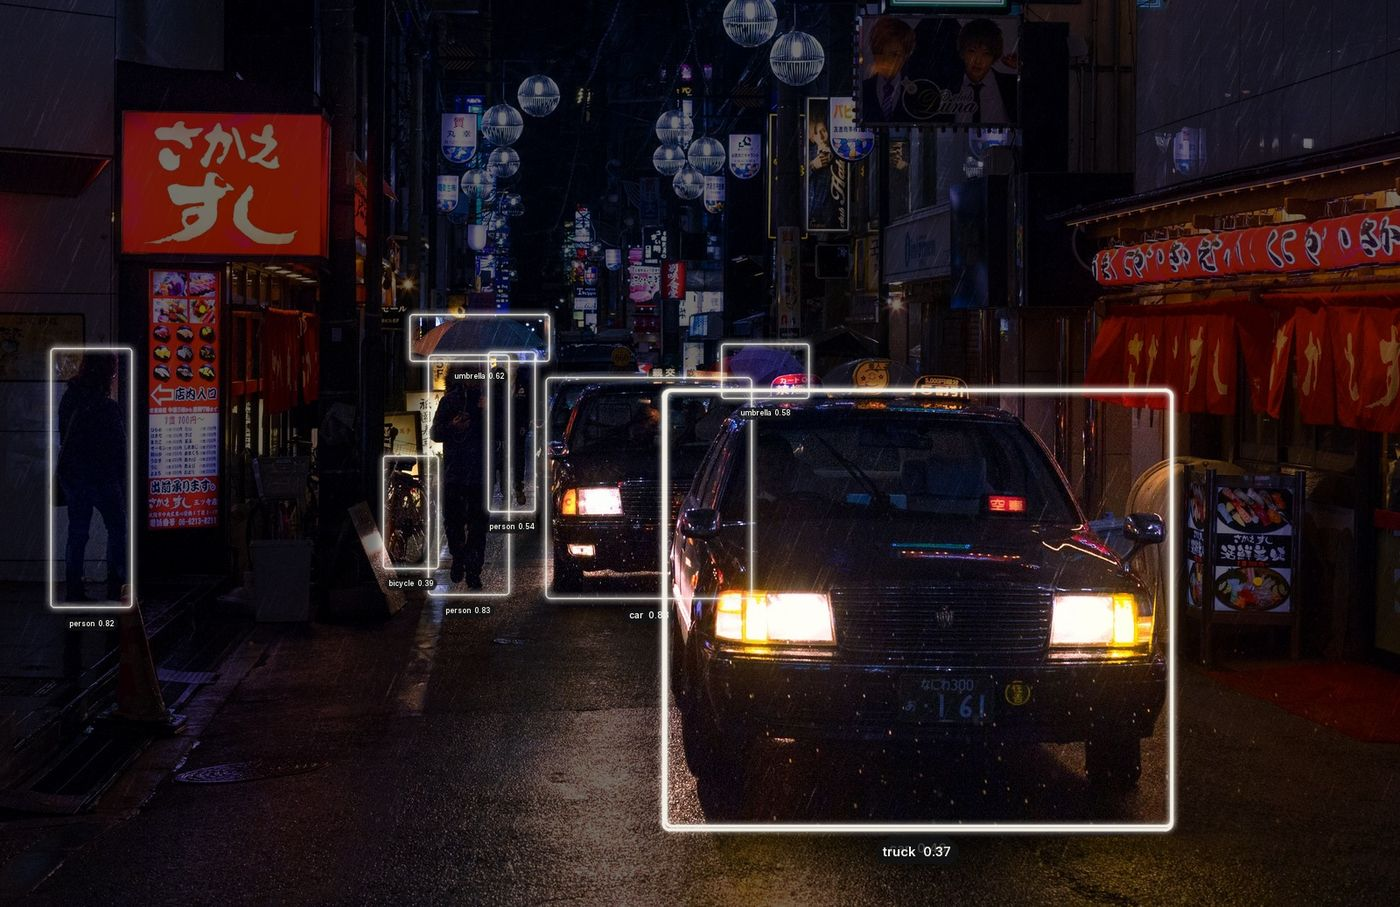
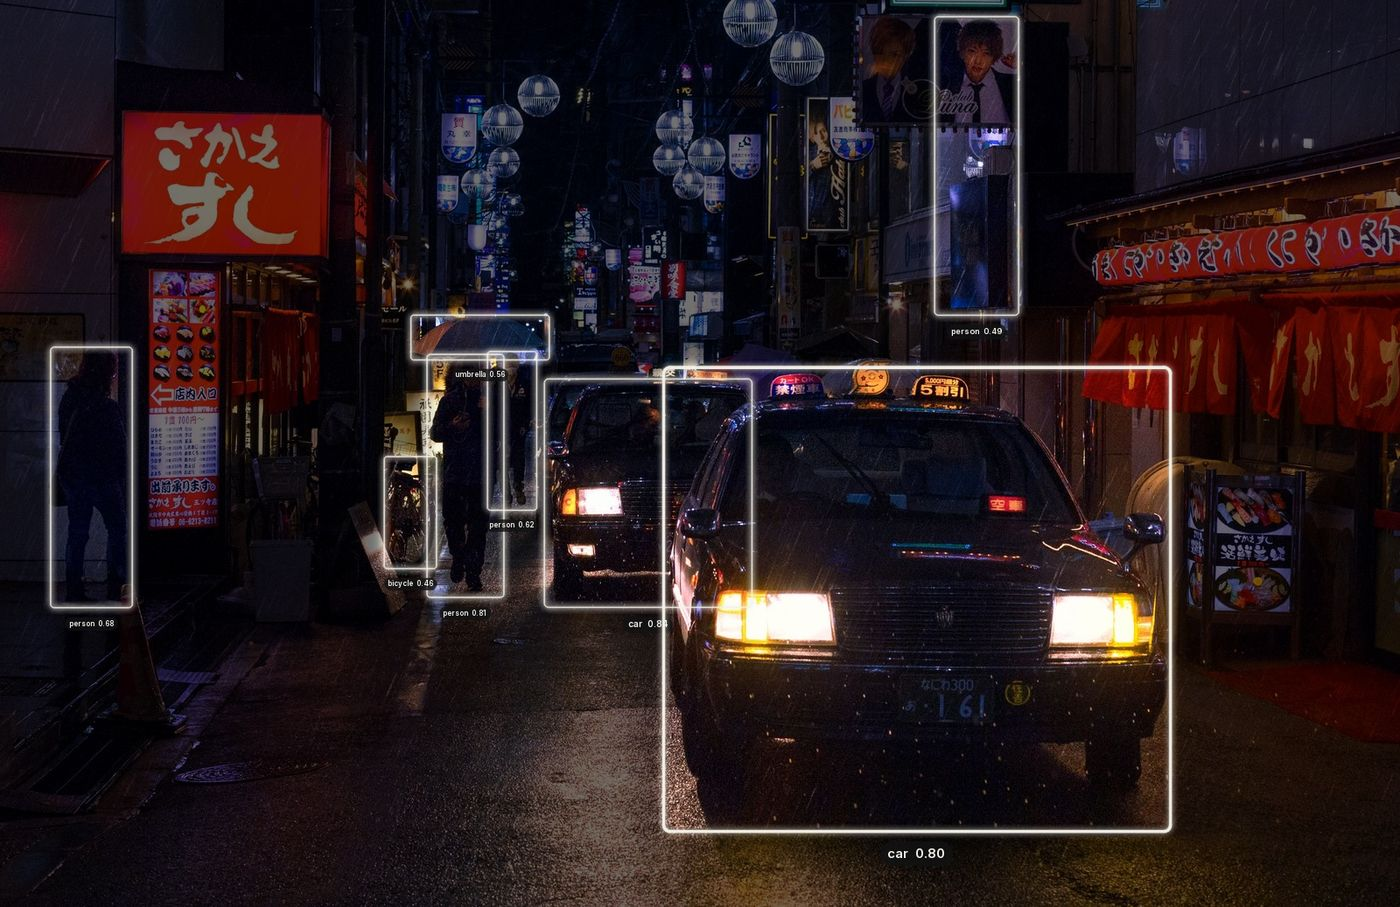
docs: re-render README, site and Studio imagery from YOLO26n detections
- hero, neon, gallery, per-preset renders and thumbs, showcase grid and the
  Studio screenshot regenerated from the new sample sidecars
- showcase trails tile: scripted motion remapped to the new track IDs

Changed region(s): [[0.2764, 0.3705, 0.86, 0.957], [0.645, 0.0, 0.7371, 0.3705], [0.0307, 0.3705, 0.0921, 0.4013]]

diff --git a/docs/showcase.py b/docs/showcase.py
@@ -2,7 +2,7 @@
 
 Each tile crops one of the bundled samples tightly around a few objects and renders them with a
 style built to show one capability, so the differences stay visible at README width. Detections
-are the samples' real YOLO11n output. The objects in the sample video barely move, so the trails
+are the samples' real YOLO26n output. The objects in the sample video barely move, so the trails
 tile scripts plausible paths (pedestrians crossing the street) ending at the real boxes and
 feeds them through the real trail renderer.
 
@@ -222,7 +222,7 @@ TILES: list[dict[str, Any]] = [
         "crop": (700, 470, 1440, 963),
         "only": ["person", "car"],
         # scripted start offsets (source px) per track id; paths end at the real boxes
-        "motion": {3: (-230, 30), 4: (260, 40), 6: (230, -10), 7: (110, 6), 8: (-100, 4)},
+        "motion": {3: (-230, 30), 7: (260, 40), 5: (230, -10), 10: (110, 6), 9: (-100, 4)},
         "style": {
             "palette": {"colors": "neon", "by": "track"},
             "box": {"shape": "corners", "corner_length": 0.24},
